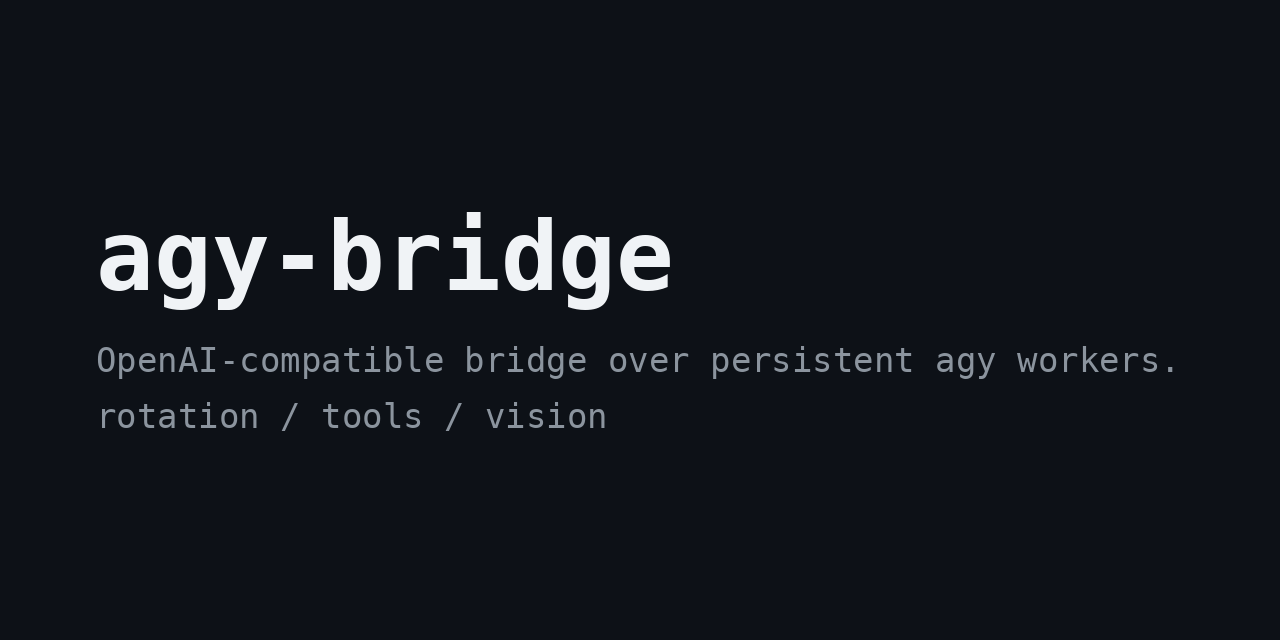
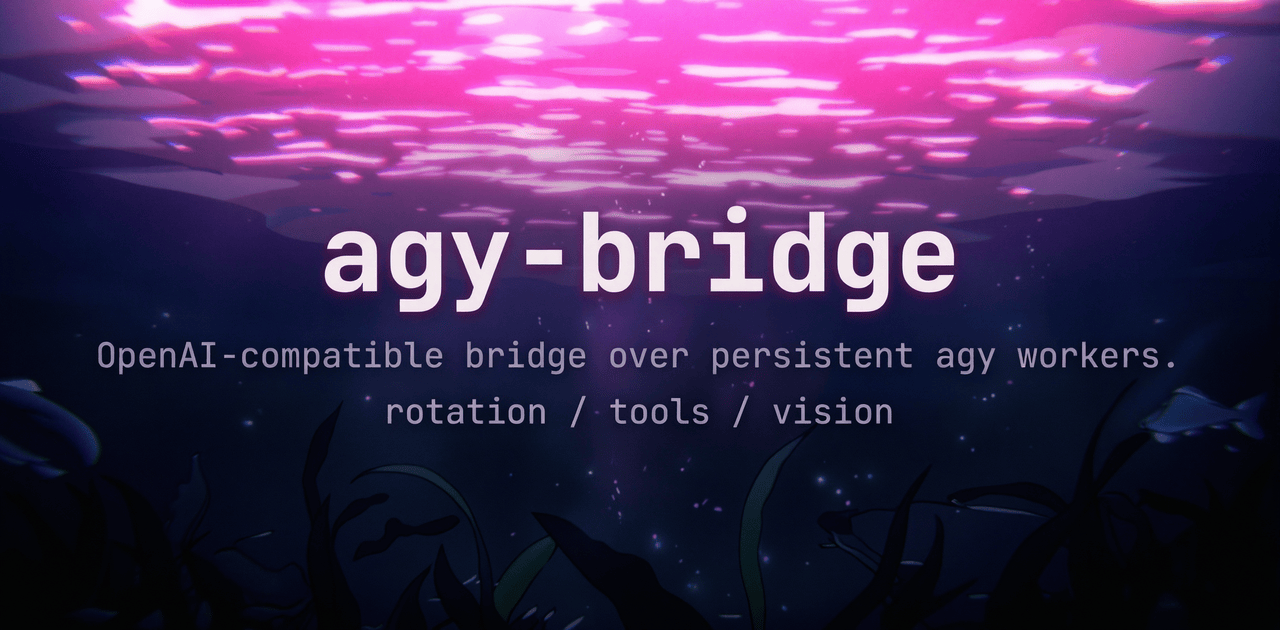
readme: restore diagram, add agent setup prompt; social card from upload

diff --git a/README.md b/README.md
@@ -2,6 +2,16 @@
 
 OpenAI-compatible HTTP bridge over persistent `agy` workers, with multi-account quota rotation, tool calls, and vision.
 
+```mermaid
+flowchart LR
+    OC["opencode / any OpenAI client"] -->|POST /v1/chat/completions<br/>SSE + tools + images| B["agy-bridge :8766"]
+    B -->|delta prompts| W1["worker · acc1<br/>agy stream-json"]
+    B -->|delta prompts| W2["worker · acc2<br/>agy stream-json"]
+    W1 --> G["Antigravity backend"]
+    W2 --> G
+    B -.->|quota poll · failover| Q["rotation<br/>health + 429 + reset-aware"]
+```
+
 ![demo](assets/demo.gif)
 
 ```bash
@@ -12,6 +22,23 @@ export AGY_BRIDGE_KEY=<apiKey>
 ```
 
 Endpoints: `GET /v1/models`, `POST /v1/chat/completions` (SSE + tools + images), `GET /v1/quotas`.
+
+## Give this to your AI agent
+
+Copy-paste to set up the whole thing:
+
+```text
+Set up agy-bridge in ~/agy-bridge so I can use my Google Antigravity logins from opencode.
+
+1. Clone https://github.com/sahilwasgood/agy-bridge to ~/agy-bridge. Bun and the `agy` CLI must be installed; I must already be logged in (verify with `agy models`).
+2. `cp agy-bridge.example.json agy-bridge.json` and put a long random string in apiKey.
+3. Run `bun server.js snapshot acc1` to save my current agy login. For each extra Google account: run `bun server.js onboard`, then ask me to run `agy` and log in, then run `bun server.js snapshot acc<N>`. One slot per Google account, never the same account twice.
+4. Start the bridge durably (systemd user unit in agy-bridge.service.example, or the setsid fallback in the README). Verify `GET /v1/models` with the bearer key.
+5. Add the `agy-local` provider to my opencode.json pointing at http://127.0.0.1:8766/v1 (wiring is in the README details section), one model entry per effort level. Restart opencode and verify with `opencode models agy-local`.
+6. Run `bun test.js` (must be 12/12) and `./examples/quickstart.sh` with AGY_BRIDGE_KEY set (must end in DEMO-OK).
+
+Never commit accounts/, agy-bridge.json, or usage logs. Report what works and what needs my manual action (only the Google OAuth clicks need me).
+```
 
 <details>
 <summary>Setup, wiring, design notes</summary>
